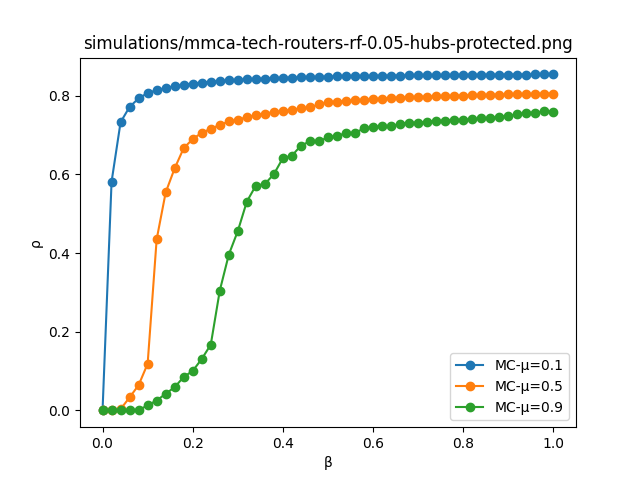
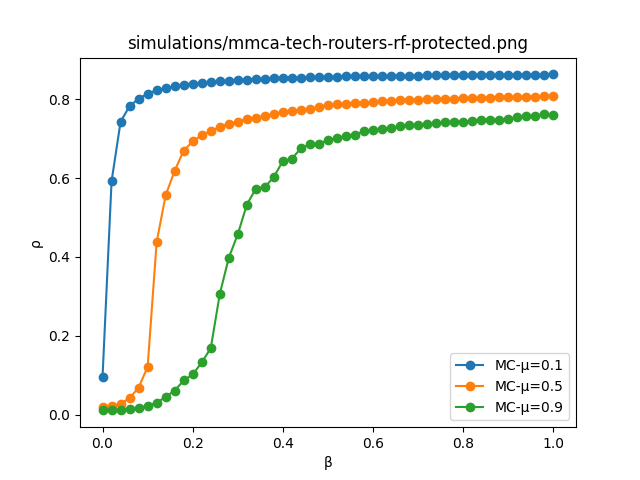
MMCA Simulation Fix

diff --git a/mainMonteCarlo.py b/mainMonteCarlo.py
@@ -1,11 +1,10 @@
-import csv
 import numpy as np
-import random
 import networkx as nx
-from MonteCarlo import *
+from simulations.MonteCarlo import MonteCarlo
 from pathlib import Path
 import pandas as pd
-from plotter import *
+from utils.plotter import plot_r_b
+
 
 def save_data_iteration(results, beta, mu, name):
     path_save = f'out/simulations/monteCarlo/{name}/'
@@ -35,20 +34,20 @@ if __name__ == '__main__':
     graph_path = 'out/networks/tech-routers-rf.net'
 
     betas = np.arange(0.0, 1.02, 0.02)
-    mus = [0.05]
+    mus = [0.1, 0.5, 0.9]
 
     # Input
     G = nx.Graph(nx.read_pajek(graph_path))
-    beta_random = 0.05
-    n_rep = 1 # 50
+    beta_random = 0.01
+    n_rep = 1   # 50
     initial_function = 'random'
     initial_ratio = 0.1
     protection_policy = 'hubs'
-    protection_ratio = 0.1
-    n_max = 10
-    n_trans = 5
+    protection_ratio = 0.05
+    n_max = 1000
+    n_trans = 900
 
-    title = 'simulations/monteCarlo/test.png'
+    title = 'simulations/monteCarlo/tech-routers-rf.png'
     names = ['test1', 'test2']
 
     all_results = []
@@ -84,4 +83,5 @@ if __name__ == '__main__':
         save_data_mu(results_csv, mu, name=names[idx_name])
 
         all_results.append(results)
+
     plot_r_b(betas, all_results, mus, title)

diff --git a/src/simulations/MonteCarlo.py b/src/simulations/MonteCarlo.py
@@ -1,7 +1,7 @@
 import numpy as np
 import networkx as nx
-import initialState
-import strategies
+from simulations import initialState
+from strategies import strategies
 
 
 class MonteCarlo:
@@ -40,9 +40,12 @@ class MonteCarlo:
 
         for rep in range(self.n_rep):
             simulation, status = self.single_simulation(protected)
+            # Maximum Rho of the iterations(b)
             extended_simulation_results.append(simulation)
             simulation_results.append(np.average(simulation[self.n_trans:]))
             node_status.append(status)
+
+        # np.average(Maximum Rho of the iterations)(b) [50 values -> 1 per beta]
 
         return simulation_results, extended_simulation_results, node_status
 
@@ -80,7 +83,6 @@ class MonteCarlo:
 
                 # If node is infected
                 elif node_status[idx_node] == 1:
-                    pass
                     # Recovery depending on neighbors
                     # If random number < self.mu -> Node has recovered -> New status = 2 (1+1)
                     # If random number > self.mu -> Node has not recovered and is still infected -> Status still 1 (0+1)

diff --git a/src/simulations/MMCA.py b/src/simulations/MMCA.py
@@ -46,7 +46,7 @@ class MMCA:
                                 for idx in range(len(old_prob))])
                 prob = np.array([1.0 if random.random() < self.random_infection else prob_value for prob_value in prob])
                 prob[beta_protected_nodes] = 0
-                beta_protected_nodes = np.unique(np.concatenate((beta_protected_nodes, np.where(prob < 1E-03)[0])))
+                # beta_protected_nodes = np.unique(np.concatenate((beta_protected_nodes, np.where(prob < 0.1)[0])))
                 rho_history.append(_get_rho(prob))
             rho_history_bvalue.append(rho_history)
 

diff --git a/README.md b/README.md
@@ -21,7 +21,7 @@ What we have to define:
 
 Division [BEFORE NEXT SUNDAY]:
 
-- Descriptors of the network and Degree Histograms [Paul]
+- Descriptors of the network and Degree Histograms [Paul] [DONE]
 - Network generation/finding [Alex/Kevin]
     - Alex: parsing graphs. [DONE]
     - Alex/Kevin: isolated nodes problem. [DONE]
@@ -33,14 +33,21 @@ Division [BEFORE NEXT SUNDAY]:
   * Taking `N` nodes with most betweenness [DONE].
   * `N/2` hubs and `N/2` with most betweenness [DONE].
 - Algorithm with honeypot implemented
-  * Monte-Carlo [Paul].
-  * MMCA [Kevin].
+  * Monte-Carlo [Paul] [Average of maximums in SIR].
+  * MMCA [Kevin] [Adapt to SIS].
 - Visualizing the network [Alex].
   * Status per iteration. [DONE]
   * Graph visualization. [DONE]
   * Rho-b [DONE]
   * Rho-time [DONE]
-  * Percolation threshold plot.
+  * Percolation threshold plot [DONE].
+  * LogLog Plot.
   
   
 - Start report
+  * Two worklines:
+    - SIR Model (MonteCarlo) so as to explain which is the averaged upperbound of epidemic that a specific network can get before it gets recovered.
+    - SIS Model (MMCA & MonteCarlo) in order to explain which is the epidemic threshold given a specific network.
+  * Graphs:
+    - 1 Real Graph.
+    - 2 CM Graphs (exponent = 3.5, exponent = 2.7)
